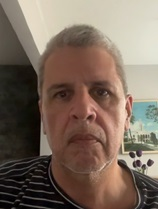
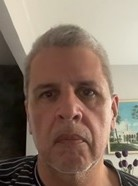
modified:   images/role_picture.jpg 	modified:   styles/base.css

diff --git a/styles/base.css b/styles/base.css
@@ -183,7 +183,8 @@ h2 {
 }
 #sect1_img1{
     padding-right: 10px;
-    height: 160px;
+    width: 138px;
+    height: 186px;
 }
 
 
